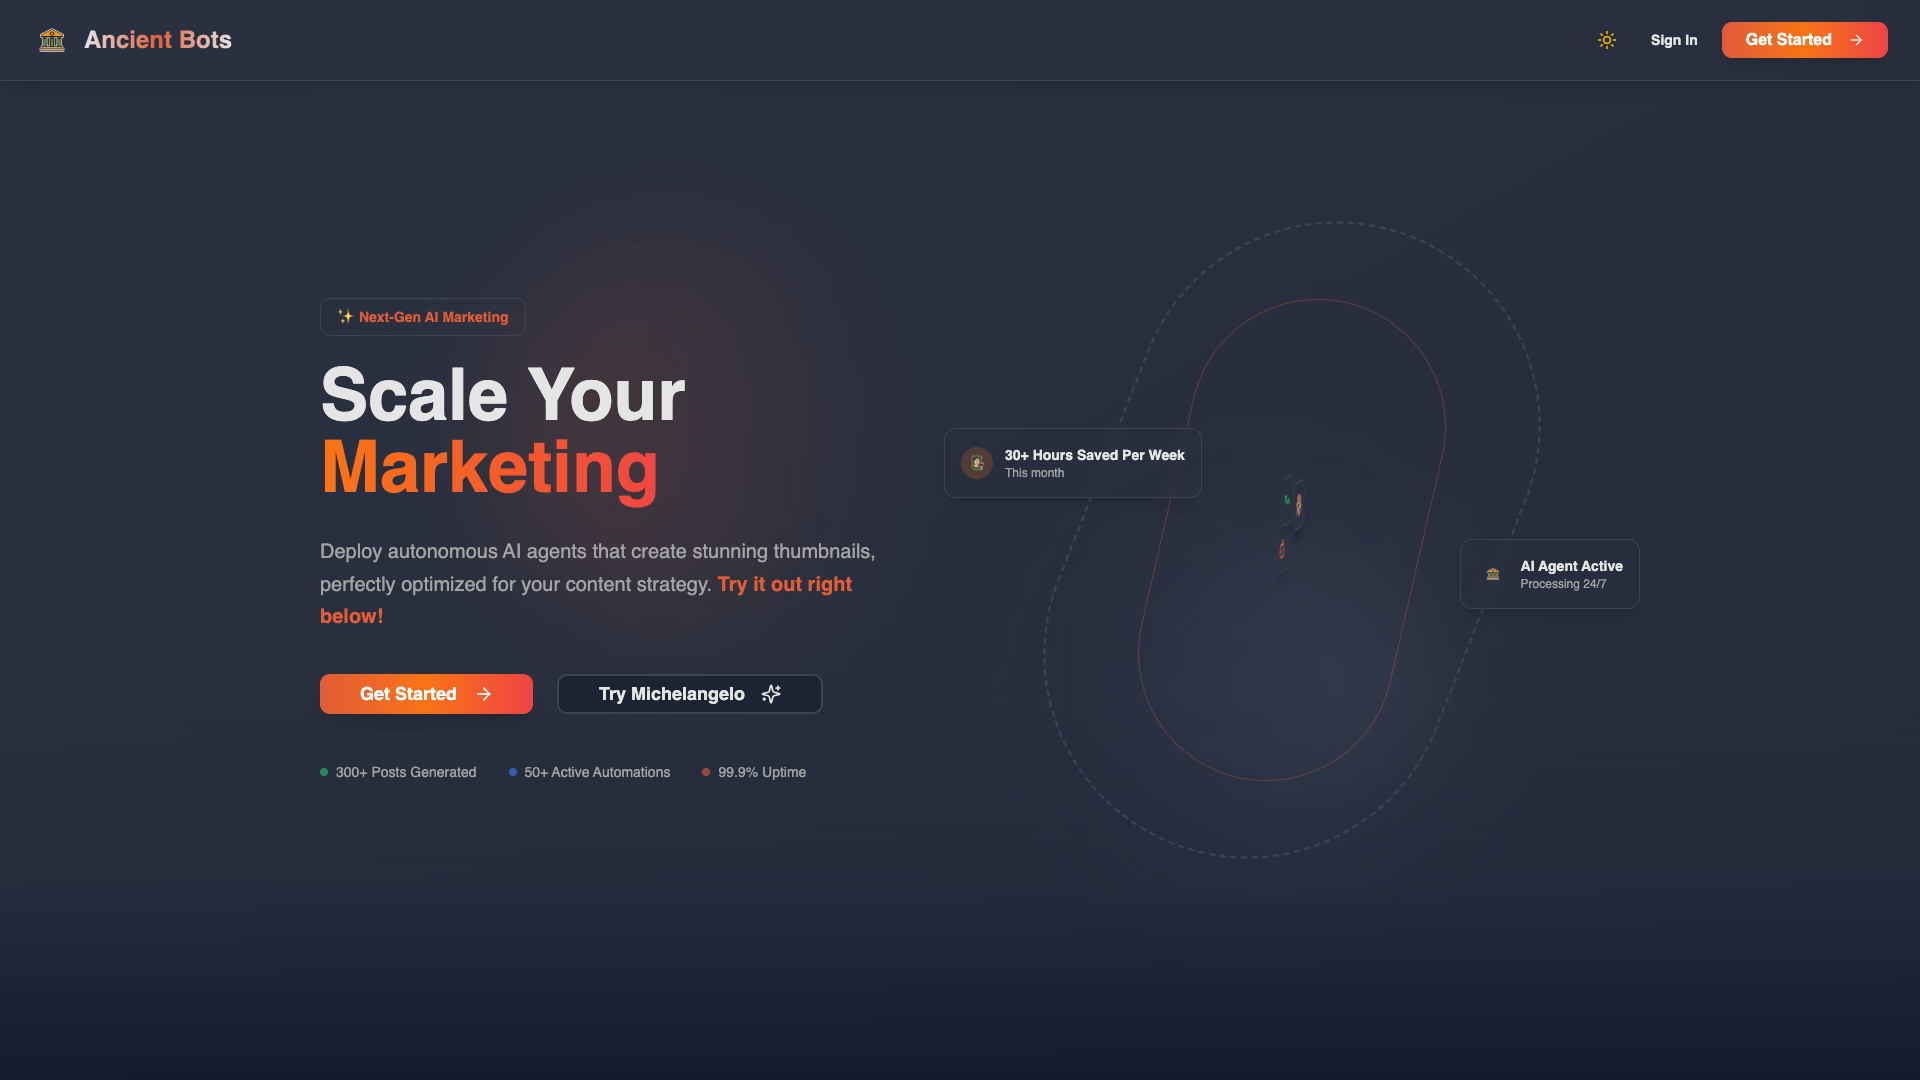
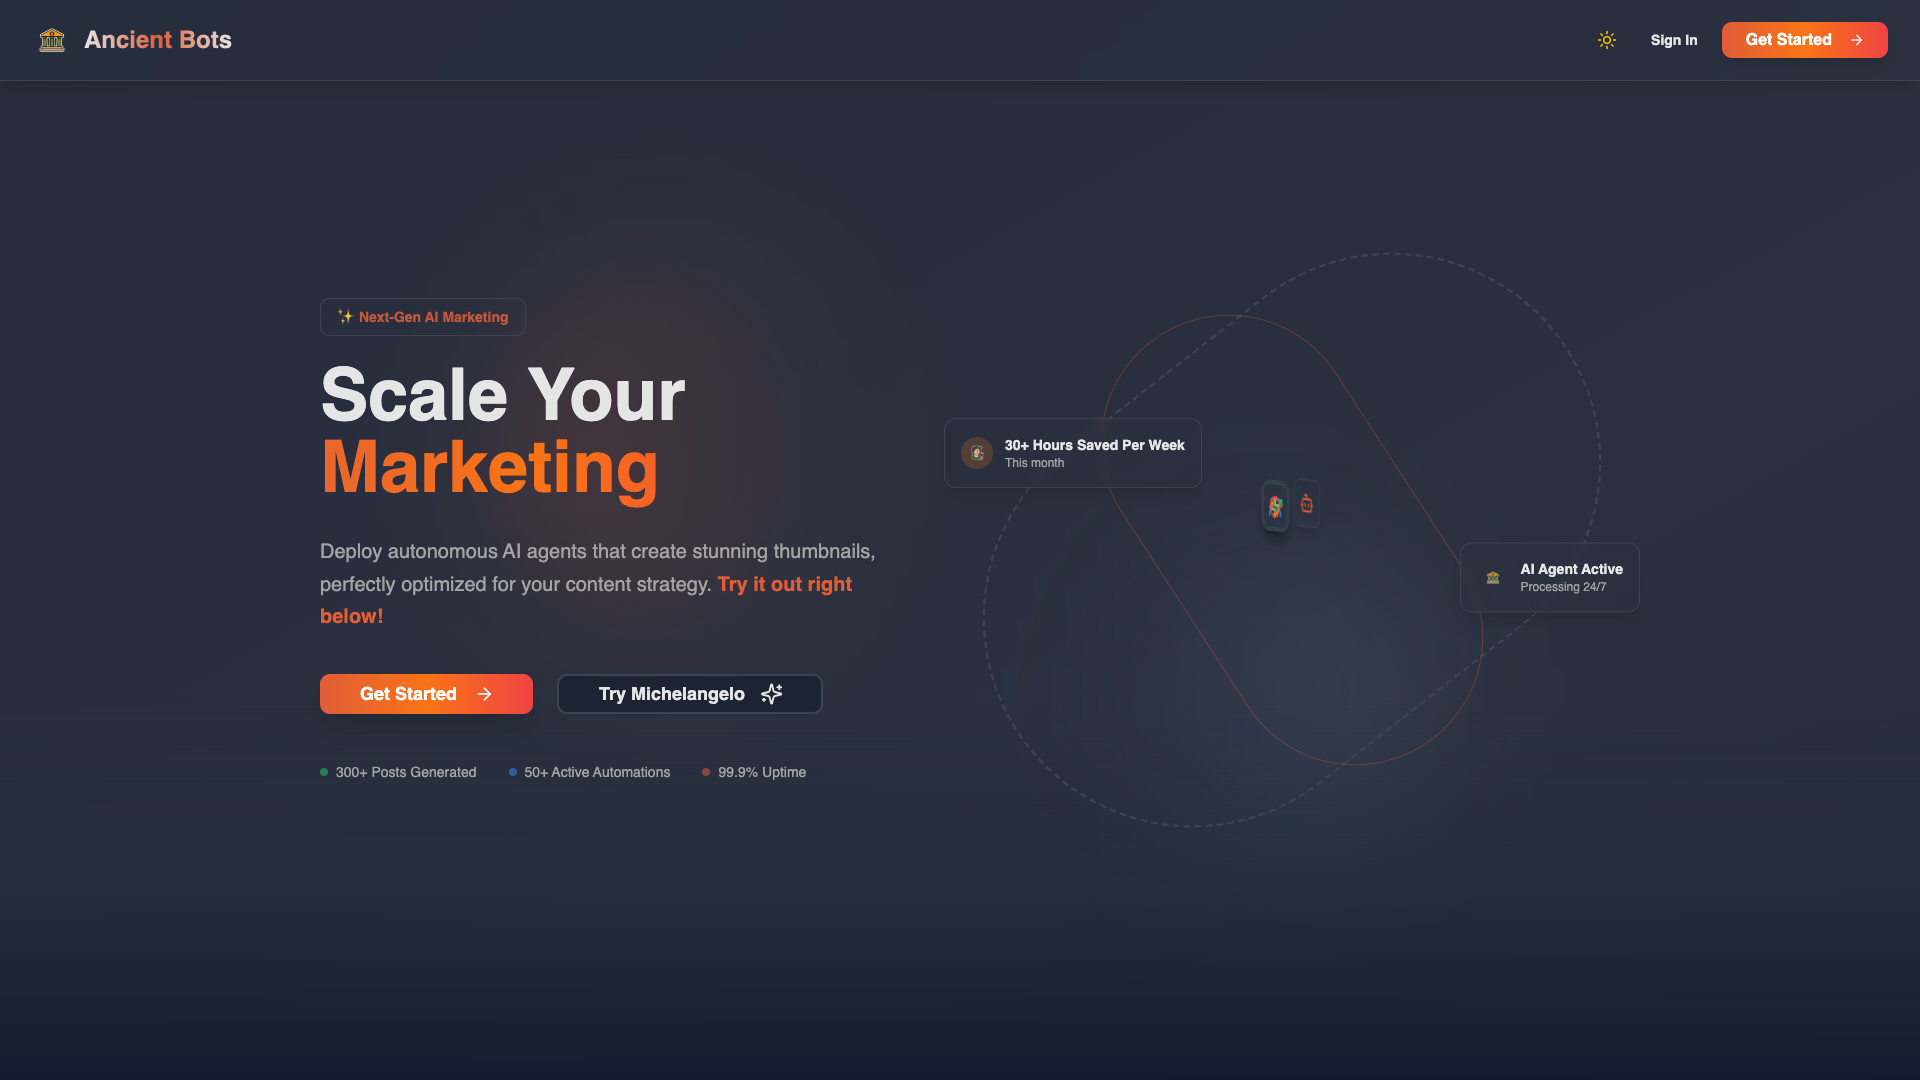
Improve screenshot logic for pages with limited scroll content
- Skip section screenshots if page doesn't have enough scrollable content
- Only takes hero, mobile, and downloaded images for single-page sites
- Avoids redundant near-identical screenshots
- Regenerated Ancient Bots with cleaner image set

🤖 Generated with [Claude Code](https://claude.com/claude-code)

diff --git a/app/routes/projects.ancient-bots/ancient-bots.jsx b/app/routes/projects.ancient-bots/ancient-bots.jsx
@@ -17,15 +17,12 @@ import { media } from '~/utils/style';
 import { baseMeta } from '~/utils/meta';
 import styles from './ancient-bots.module.css';
 import ancientBotsImage0 from '~/assets/ancient-bots/screenshot-hero.png';
-import ancientBotsImage1 from '~/assets/ancient-bots/screenshot-full.png';
-import ancientBotsImage2 from '~/assets/ancient-bots/screenshot-section1.png';
-import ancientBotsImage3 from '~/assets/ancient-bots/screenshot-section2.png';
-import ancientBotsImage4 from '~/assets/ancient-bots/screenshot-mobile.png';
-import ancientBotsImage5 from '~/assets/ancient-bots/image-0.png';
+import ancientBotsImage1 from '~/assets/ancient-bots/screenshot-mobile.png';
+import ancientBotsImage2 from '~/assets/ancient-bots/image-0.png';
 
 const title = 'Ancient Bots: AI-Powered Social Media Content Generator';
-const description = 'Transformed social media presence with AI, generating eye-catching content and posts.';
-const roles = ['AI Implementation', 'UI/UX Design', 'Back-End Development', 'Front-End Development', 'Database Management', 'API Integration'];
+const description = 'An intelligent content creation platform that generates stunning social media posts using AI.';
+const roles = ['AI Developer', 'UX/UI Designer', 'Product Manager', 'Marketing Strategist'];
 
 export const meta = () => {
   return baseMeta({ title, description, prefix: 'Projects' });
@@ -66,9 +63,20 @@ export const AncientBots = () => {
         <ProjectSection>
           <ProjectSectionContent>
             <ProjectTextRow>
-              <ProjectSectionHeading>AI-Driven Content Generation</ProjectSectionHeading>
+              <ProjectSectionHeading>Overview</ProjectSectionHeading>
               <ProjectSectionText>
-                Developed an AI bot that understands trends and engagement patterns, providing optimal content strategies.
+                Ancient Bots is an AI-driven platform that generates engaging social media content. It has been designed to assist creators, marketers, and businesses in creating eye-catching posts in seconds.
+              </ProjectSectionText>
+            </ProjectTextRow>
+          </ProjectSectionContent>
+        </ProjectSection>
+
+        <ProjectSection light>
+          <ProjectSectionContent>
+            <ProjectTextRow>
+              <ProjectSectionHeading>AI-Powered Content Generation</ProjectSectionHeading>
+              <ProjectSectionText>
+                Leverages cutting-edge AI to create viral social media content, understanding engagement patterns and optimal content strategies.
               </ProjectSectionText>
             </ProjectTextRow>
             <Image
@@ -76,19 +84,19 @@ export const AncientBots = () => {
               width={800}
               height={500}
               placeholder={ancientBotsImage1}
-              alt="AI bot content generation interface"
+              alt="AI creating social media content"
               sizes={`(max-width: ${media.mobile}px) 100vw, 80vw`}
             />
           </ProjectSectionContent>
         </ProjectSection>
 
-        <ProjectSection light>
+        <ProjectSection>
           <ProjectSectionColumns>
             <ProjectSectionContent>
               <ProjectTextRow>
                 <ProjectSectionHeading>Smart Template System</ProjectSectionHeading>
                 <ProjectSectionText>
-                  Created a range of professionally designed templates optimized for various social media platforms.
+                  Offers hundreds of professionally designed templates optimized for each social platform, ensuring brand consistency and design automation.
                 </ProjectSectionText>
               </ProjectTextRow>
             </ProjectSectionContent>
@@ -99,61 +107,7 @@ export const AncientBots = () => {
                 width={350}
                 height={750}
                 placeholder={ancientBotsImage2}
-                alt="Templates selection interface"
-                sizes={`(max-width: ${media.mobile}px) 200px, 343px`}
-              />
-            </div>
-          </ProjectSectionColumns>
-        </ProjectSection>
-
-        <ProjectSection>
-          <ProjectSectionContent>
-            <ProjectTextRow>
-              <ProjectSectionHeading>Rapid Content Creation</ProjectSectionHeading>
-              <ProjectSectionText>
-                Implemented AI algorithms for generating professional social media content in under 30 seconds.
-              </ProjectSectionText>
-            </ProjectTextRow>
-          </ProjectSectionContent>
-        </ProjectSection>
-
-        <ProjectSection light>
-          <ProjectSectionContent>
-            <ProjectTextRow>
-              <ProjectSectionHeading>Viral Content Optimization</ProjectSectionHeading>
-              <ProjectSectionText>
-                Incorporated an AI that analyzes successful posts to optimize content for viral marketing and engagement.
-              </ProjectSectionText>
-            </ProjectTextRow>
-            <Image
-              srcSet={`${ancientBotsImage3} 800w, ${ancientBotsImage3} 1920w`}
-              width={800}
-              height={500}
-              placeholder={ancientBotsImage3}
-              alt="Viral content optimization dashboard"
-              sizes={`(max-width: ${media.mobile}px) 100vw, 80vw`}
-            />
-          </ProjectSectionContent>
-        </ProjectSection>
-
-        <ProjectSection>
-          <ProjectSectionColumns>
-            <ProjectSectionContent>
-              <ProjectTextRow>
-                <ProjectSectionHeading>Brand Consistency</ProjectSectionHeading>
-                <ProjectSectionText>
-                  Built features to maintain brand voice and visual identity across all platforms and content.
-                </ProjectSectionText>
-              </ProjectTextRow>
-            </ProjectSectionContent>
-            <div className={styles.sidebarImages}>
-              <Image
-                className={styles.sidebarImage}
-                srcSet={`${ancientBotsImage4} 350w, ${ancientBotsImage4} 700w`}
-                width={350}
-                height={750}
-                placeholder={ancientBotsImage4}
-                alt="Brand consistency settings"
+                alt="Smart template system"
                 sizes={`(max-width: ${media.mobile}px) 200px, 343px`}
               />
             </div>
@@ -163,9 +117,20 @@ export const AncientBots = () => {
         <ProjectSection light>
           <ProjectSectionContent>
             <ProjectTextRow>
-              <ProjectSectionHeading>Multi-Platform Support</ProjectSectionHeading>
+              <ProjectSectionHeading>Lightning Fast Generation</ProjectSectionHeading>
               <ProjectSectionText>
-                Enabled content creation optimized for all major social media platforms, ensuring perfect sizing and formatting.
+                Capable of generating professional social media content in under 30 seconds, saving users from hours spent on design tools or struggling with writer's block.
+              </ProjectSectionText>
+            </ProjectTextRow>
+          </ProjectSectionContent>
+        </ProjectSection>
+
+        <ProjectSection>
+          <ProjectSectionContent>
+            <ProjectTextRow>
+              <ProjectSectionHeading>Pricing</ProjectSectionHeading>
+              <ProjectSectionText>
+                Flexible pricing starting with a free trial. Offers different plans catering to individuals, growing brands, and larger organizations.
               </ProjectSectionText>
             </ProjectTextRow>
           </ProjectSectionContent>

diff --git a/scripts/new-project.js b/scripts/new-project.js
@@ -299,37 +299,48 @@ async function takeScreenshots(url, assetsDir) {
     screenshots.push({ filename: 'screenshot-hero.png', type: 'hero' });
     console.log('   ✅ Captured: hero screenshot (desktop)');
 
-    // Screenshot 2: Full page (desktop) - useful for showing the whole site
-    const fullPath = path.join(assetsDir, 'screenshot-full.png');
-    await page.screenshot({
-      path: fullPath,
-      type: 'png',
-      fullPage: true,
-    });
-    screenshots.push({ filename: 'screenshot-full.png', type: 'full' });
-    console.log('   ✅ Captured: full page screenshot');
+    // Get page dimensions
+    const pageHeight = await page.evaluate(() => document.body.scrollHeight);
+    const viewportHeight = 1080;
+    const scrollableHeight = pageHeight - viewportHeight;
 
-    // Scroll down and take another screenshot (middle section)
-    await page.evaluate(() => window.scrollBy(0, window.innerHeight));
-    await new Promise((r) => setTimeout(r, 1000));
-    const section1Path = path.join(assetsDir, 'screenshot-section1.png');
-    await page.screenshot({
-      path: section1Path,
-      type: 'png',
-    });
-    screenshots.push({ filename: 'screenshot-section1.png', type: 'section' });
-    console.log('   ✅ Captured: section 1 screenshot');
+    // Only take section screenshots if page has enough content to scroll
+    if (scrollableHeight > viewportHeight * 0.5) {
+      // Scroll to 33% of page
+      await page.evaluate((y) => window.scrollTo(0, y), Math.floor(scrollableHeight * 0.33));
+      await new Promise((r) => setTimeout(r, 1000));
+      const section1Path = path.join(assetsDir, 'screenshot-section1.png');
+      await page.screenshot({
+        path: section1Path,
+        type: 'png',
+      });
+      screenshots.push({ filename: 'screenshot-section1.png', type: 'section' });
+      console.log('   ✅ Captured: section 1 screenshot (33% scroll)');
 
-    // Scroll more and take another screenshot
-    await page.evaluate(() => window.scrollBy(0, window.innerHeight));
-    await new Promise((r) => setTimeout(r, 1000));
-    const section2Path = path.join(assetsDir, 'screenshot-section2.png');
-    await page.screenshot({
-      path: section2Path,
-      type: 'png',
-    });
-    screenshots.push({ filename: 'screenshot-section2.png', type: 'section' });
-    console.log('   ✅ Captured: section 2 screenshot');
+      // Scroll to 66% of page
+      await page.evaluate((y) => window.scrollTo(0, y), Math.floor(scrollableHeight * 0.66));
+      await new Promise((r) => setTimeout(r, 1000));
+      const section2Path = path.join(assetsDir, 'screenshot-section2.png');
+      await page.screenshot({
+        path: section2Path,
+        type: 'png',
+      });
+      screenshots.push({ filename: 'screenshot-section2.png', type: 'section' });
+      console.log('   ✅ Captured: section 2 screenshot (66% scroll)');
+
+      // Scroll to bottom
+      await page.evaluate((y) => window.scrollTo(0, y), scrollableHeight);
+      await new Promise((r) => setTimeout(r, 1000));
+      const section3Path = path.join(assetsDir, 'screenshot-section3.png');
+      await page.screenshot({
+        path: section3Path,
+        type: 'png',
+      });
+      screenshots.push({ filename: 'screenshot-section3.png', type: 'section' });
+      console.log('   ✅ Captured: section 3 screenshot (bottom)');
+    } else {
+      console.log('   ℹ  Page has limited scroll content, skipping section screenshots');
+    }
 
     // Mobile viewport screenshot
     await page.setViewport({ width: 375, height: 812 });

diff --git a/app/routes/home/home.jsx b/app/routes/home/home.jsx
@@ -109,13 +109,13 @@ export const Home = () => {
         sectionRef={projectFour}
         visible={visibleSections.includes(projectFour.current)}
         index={1}
-        title="Revolutionizing Social Media with AI"
-        description="AI-powered platform generating engaging, viral social media content."
+        title="Revolutionize Social Media with Ancient Bots"
+        description="AI-powered platform for generating engaging social media content in seconds."
         buttonText="View project"
         buttonLink="/projects/ancient-bots"
         model={{
           type: 'laptop',
-          alt: 'Revolutionizing Social Media with AI',
+          alt: 'Revolutionize Social Media with Ancient Bots',
           textures: [
             {
               srcSet: `${ancientBotsTexture} 800w, ${ancientBotsTexture} 1920w`,
